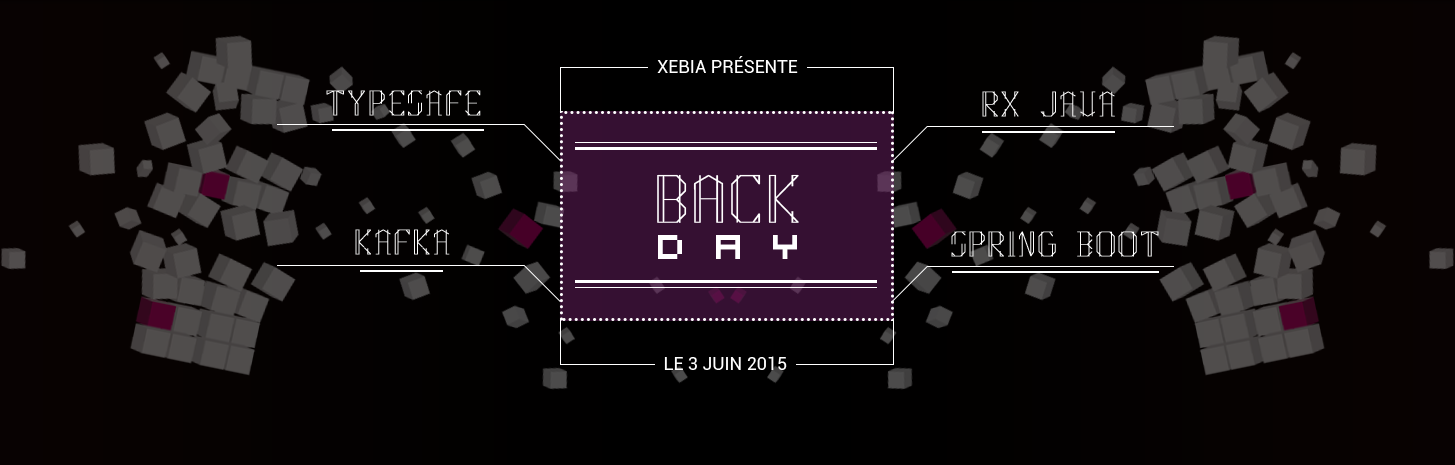
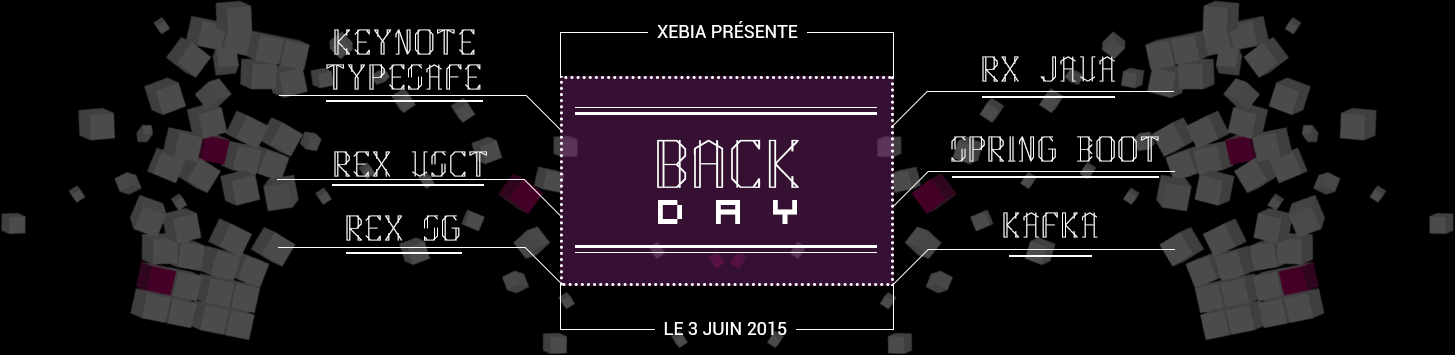
new img header + new input

diff --git a/styles/main.min.css b/styles/main.min.css
@@ -1,1 +1,1 @@
-@font-face{font-family:"visitor";src:url('../fonts/visitor2-webfont.woff') format('woff'),url('../fonts/visitor2-webfont.svg') format('svg'),url('../fonts/visitor2-webfont.ttf') format('truetype')}html,body,div,span,applet,object,iframe,h1,h2,h3,h4,h5,h6,p,blockquote,pre,a,abbr,acronym,address,big,cite,code,del,dfn,em,img,ins,kbd,q,s,samp,small,strike,strong,sub,sup,tt,var,b,u,i,center,dl,dt,dd,ol,ul,li,fieldset,form,label,legend,table,caption,tbody,tfoot,thead,tr,th,td,article,aside,canvas,details,embed,figure,figcaption,footer,header,hgroup,menu,nav,output,ruby,section,summary,time,mark,audio,video{margin:0;padding:0;border:0;font-size:100%;font:inherit;vertical-align:baseline}article,aside,details,figcaption,figure,footer,header,hgroup,menu,nav,section{display:block}body{line-height:1}.link{color:#aa2615;text-decoration:none}ol,ul{list-style:none}blockquote,q{quotes:none}blockquote:before,blockquote:after,q:before,q:after{content:'';content:none}table{border-collapse:collapse;border-spacing:0}p,h1,h2,h3,h4,span,div,th,td,a{font-family:'Roboto',sans-serif}body{margin:0 auto}.pixel_title{font-family:"visitor";font-size:40px;color:#aa2615}.inner-wrapper{max-width:1024px;margin-left:auto;margin-right:auto;position:relative}.inner-wrapper:after{clear:both;content:'';display:block}header{position:relative}header .xebia{min-height:60px;background-color:#6c1d5f;padding-bottom:10px}header .xebia nav{float:right;padding-top:30px}@media (max-width:480px){header .xebia nav{display:none}}header .xebia nav ul li{display:inline-block}header .xebia nav ul li a{color:white;text-decoration:none;margin-right:20px;padding:20px 20px}@media (max-width:480px){header .xebia nav ul li a{padding:0px;text-align:center}}header .xebia nav ul li a:hover{border-bottom:2px solid white}header .xebia .logo-xebia{margin-left:45px;margin-top:15px;float:left}@media (max-width:420px){header .xebia{text-align:center}header .xebia .logo-xebia{margin-top:0;padding-top:10px;display:block;float:none;margin-left:auto;margin-right:auto}}header .xebia:after{clear:both;content:'';display:block}header .backday{background-color:#000;background-image:url(../images/header/img_back_day_xebia.png);background-repeat:no-repeat;background-position:center;min-width:700px;background-size:1460px;position:relative}@media (max-width:540px){header .backday{background-image:url(../images/header/img_back_day_mobile.png);background-size:100%;min-width:320px;background-position:top}}header .backday .inner-wrapper{min-height:464px}@media (max-width:540px){header .backday .inner-wrapper{min-height:364px}}header .backday .devops-titre{margin-top:55px;margin-left:10px}header .backday .devops-logo{position:absolute;right:5px;bottom:5px}header .backday .time-wrapper{margin-top:60px}header .backday .time-wrapper time{color:#aa2615;font-size:50px;margin-left:40px}@media (max-width:400px){header .backday .time-wrapper time{margin-left:0}}@media (max-width:1020px){header .backday{text-align:center}header .backday .devops-logo{position:static;margin-top:15px;margin-bottom:20px}}@media (max-width:705px){header .backday .devops-logo{width:100%}}@media (max-width:470px){header .backday .devops-titre{width:100%;margin-left:0}}header .more-button{text-align:center;bottom:-37px;position:absolute;left:0;right:0}header .triangle{border-right:16px solid transparent;border-left:16px solid transparent;border-top:16px solid #6c1d5f;width:0;height:0;position:absolute;margin-left:auto;margin-right:auto;left:0;right:0;bottom:22px;z-index:-1}main section{padding-top:30px;padding-bottom:30px}.popupable{cursor:pointer}.popupable:after{content:'→';background-color:#6c1d5f;border-radius:100%;color:white;width:25px;height:25px;display:inline-block;line-height:25px;margin-left:10px}.popupable:hover{color:#aa2615}.popupable:hover:after{background-color:#aa2615}main .tagline h1{text-align:center;color:#aa2615;font-size:22px;padding-top:30px;padding-bottom:30px;text-transform:uppercase}main .tagline h2{text-transform:uppercase;font-size:21px;border-bottom:1px solid black;margin-top:20px;max-width:900px;margin-left:auto;margin-right:auto}main .tagline h2 b{font-weight:bold}main .tagline .first-paragraph{margin-top:50px;line-height:24px}main .tagline p{max-width:900px;margin-left:auto;margin-right:auto}main .tagline p.bold{margin-top:30px;margin-bottom:30px;font-weight:bold}main .tagline .techtrends-wrapper{float:right;margin:20px 40px;text-align:center}main .tagline .techtrends-wrapper a{color:#aa2615;text-decoration:none}main .tagline .techtrends-wrapper a:hover{color:#aa2615;text-decoration:none}main .tagline .techtrends-wrapper div{margin-top:10px}@media (max-width:750px){main .tagline .techtrends-wrapper{float:none}}main .tagline:after{clear:both;content:'';display:block}main .program{background-color:#f5f5f5;padding-bottom:60px}main .program h1{text-transform:uppercase;font-size:22px;padding-top:30px;margin-bottom:15px;max-width:900px;margin-left:auto;margin-right:auto;border-bottom:1px solid black}main .program h1 b{font-weight:bold}main .program .table-wrapper{padding-top:20px;padding-bottom:20px}main .program .table-wrapper table{width:95%;margin-left:auto;margin-right:auto}main .program .table-wrapper table thead th{color:#aa2615;text-transform:uppercase;font-weight:bold}main .program .table-wrapper table tbody td{text-align:center;border-bottom:1px solid #e4e4e4;padding-top:12px;padding-bottom:12px;padding-right:20px;font-size:14px}main .program .table-wrapper table tbody td.center-cell{border-right:1px solid #e4e4e4}main .program .table-wrapper table tbody td.inscription-cell{color:#6c1d5f;vertical-align:middle;padding-left:5px;padding-right:20px}main .program .table-wrapper table tbody td:first-of-type{color:#6c1d5f;font-weight:bold;text-align:left;min-width:120px}main .program .table-wrapper table tbody td.last-cell{border-right:1px solid #e4e4e4}main .program .table-wrapper table tbody td.last-line{border-bottom:none}main .program .table-wrapper table tbody a{text-decoration:none}main .program .table-wrapper table tbody a:hover{color:#aa2615}main .program .table-wrapper table tbody .open-inscription a{position:relative;display:inline-block;width:100%;padding-left:5px;padding-right:20px;color:#6c1d5f}main .program .table-wrapper table tbody .open-inscription a:hover{color:#aa2615}@media (min-width:860px){main .program .table-wrapper table tbody .open-inscription a:after{content:' > ';position:absolute;right:5px}}main .program .table-wrapper table tbody .inscription-line{display:none}@media (max-width:860px){main .program .table-wrapper table,main .program .table-wrapper thead,main .program .table-wrapper tbody,main .program .table-wrapper th,main .program .table-wrapper td,main .program .table-wrapper tr{display:block}main .program .table-wrapper #table-planning tbody{border-right:4px solid #e4e4e4;border-left:4px solid #e4e4e4;border-bottom:4px solid #e4e4e4}main .program .table-wrapper #table-planning tbody:first-of-type{border-top:4px solid #e4e4e4}main .program .table-wrapper #table-planning tbody .inscription-line{display:inherit}main .program .table-wrapper #table-planning thead tr{position:absolute;top:-9999px;left:-9999px}main .program .table-wrapper #table-planning tr{border-bottom:1px solid #e4e4e4}main .program .table-wrapper #table-planning td{border:none;border-bottom:1px solid #e4e4e4;position:relative;white-space:normal;text-align:center;padding-left:46px}main .program .table-wrapper #table-planning td:before{position:absolute;top:6px;left:6px;width:45%;padding-right:10px;white-space:nowrap;text-align:left;font-weight:bold}main .program .table-wrapper #table-planning td.center-cell:before{content:'LOG';color:#aa2615}main .program .table-wrapper #table-planning td.second-room:before{content:'PERF';color:#aa2615}main .program .table-wrapper #table-planning td.inscription-cell{display:none}}.partner h1{text-transform:uppercase;font-size:23px;border-bottom:1px solid black;margin-top:20px;max-width:900px;margin-left:auto;margin-right:auto}@media (max-width:480px){.partner h1{margin-bottom:30px}}.partner h1 b{font-weight:bold}.partner .logo-partner{text-align:center}.partner .logo-partner .img-wrapper{display:inline-block}.partner .logo-partner .img-wrapper.second{width:200px;position:relative;top:25px}@media (max-width:480px){.partner .logo-partner .img-wrapper.second{top:0px}}.partner .logo-partner .img-wrapper.third{margin-left:20px}.partner .logo-partner .img-wrapper.second-quarter,.partner .logo-partner .img-wrapper.third-quarter,.partner .logo-partner .img-wrapper.fourth-quarter{margin-left:30px}.partner .logo-partner .img-wrapper.fourth-quarter{position:relative;top:9px}.partner .logo-partner .img-wrapper .xebia-labs{width:160px}footer .social{background-color:#6c1d5f;text-align:center}footer .social a{text-decoration:none;color:black;height:100px;line-height:100px;margin:0 20px}@media (max-width:450px){footer .social a{margin:0}}footer .social a:visited{text-decoration:none;color:black}footer .social a img{vertical-align:middle}footer .social a img.active{display:none}footer .social a:hover img.active{display:inherit}footer .social a:hover img.inactive{display:none}footer .alliancy{background-color:#f1f0ee}footer .alliancy .tagline{width:462px;margin:auto;height:170px;background:url('../images/footer-alliance.png') 0 20px no-repeat #f1f0ee}@media (max-width:470px){footer .alliancy .tagline{width:100%}}footer .alliancy .tagline-xebia{width:462px;margin:auto;height:111px;background:url('../images/footer-logo-xebia.png') 0 20px no-repeat #f1f0ee}@media (max-width:470px){footer .alliancy .tagline-xebia{background:url('../images/footer-logo-xebia.png') 0 20px no-repeat #f1f0ee;height:55px;margin-bottom:10px;width:100%}}footer .alliancy .tagline-alliance{width:550px;margin:auto;border-top:1px solid #bebab8}@media (max-width:470px){footer .alliancy .tagline-alliance{width:100%}}footer .alliancy .tagline-alliance:after{clear:both;content:'';display:block}footer .alliancy .tagline-alliance .alliance-wrapper:after{clear:both;content:'';display:block}footer .alliancy .tagline-alliance div{text-transform:uppercase;line-height:16px;text-align:justify;float:left;margin-left:7px;margin-top:16px;font-size:11px;letter-spacing:1px}@media (max-width:470px){footer .alliancy .tagline-alliance div{float:none;text-align:center}footer .alliancy .tagline-alliance div .unused{display:none}}footer .alliancy .tagline-alliance a{color:#6d626b}footer .alliancy .tagline-alliance a:hover{text-decoration:underline}@media (max-width:470px){footer .alliancy .tagline-alliance a{display:block}}footer .alliancy .logo-alliance{margin-top:10px;float:left}@media (max-width:470px){footer .alliancy .logo-alliance{float:none}}#infos{padding-bottom:0px}#infos h2{margin-bottom:10px}.fade{opacity:0;-webkit-transition:opacity .15s linear;transition:opacity .15s linear}.fade.in{opacity:1}.close{float:right;font-size:21px;font-weight:bold;line-height:1;color:#000;text-shadow:0 1px 0 #fff;filter:alpha(opacity=20);opacity:.2}.close:hover,.close:focus{color:#000;text-decoration:none;cursor:pointer;filter:alpha(opacity=50);opacity:.5}button.close{-webkit-appearance:none;padding:0;cursor:pointer;background:transparent;border:0}.modal-open{overflow:hidden}.modal{position:fixed;top:0;right:0;bottom:0;left:0;z-index:1050;display:none;overflow:auto;overflow-y:scroll;-webkit-overflow-scrolling:touch;outline:0}.modal.fade .modal-dialog{-webkit-transition:-webkit-transform .3s ease-out;-moz-transition:-moz-transform .3s ease-out;-o-transition:-o-transform .3s ease-out;transition:transform .3s ease-out;-webkit-transform:translate(0, -25%);-ms-transform:translate(0, -25%);transform:translate(0, -25%)}.modal.in .modal-dialog{-webkit-transform:translate(0, 0);-ms-transform:translate(0, 0);transform:translate(0, 0)}.modal-dialog{position:relative;width:auto;margin:10px}.modal-content{position:relative;background-color:#fff;background-clip:padding-box;border:1px solid #999;border:1px solid rgba(0,0,0,0.2);border-radius:6px;outline:none;-webkit-box-shadow:0 3px 9px rgba(0,0,0,0.5);box-shadow:0 3px 9px rgba(0,0,0,0.5)}.modal-backdrop{position:fixed;top:0;right:0;bottom:0;left:0;z-index:1040;background-color:#000}.modal-backdrop.fade{filter:alpha(opacity=0);opacity:0}.modal-backdrop.in{filter:alpha(opacity=50);opacity:.5}.modal-header{min-height:16.42857143px;padding:15px;border-bottom:1px solid #e5e5e5}.modal-header .close{margin-top:-2px}.modal-title{margin:0;line-height:1.42857143}.modal-body{position:relative;padding:20px}.modal-footer{padding:19px 20px 20px;margin-top:15px;text-align:right;border-top:1px solid #e5e5e5}.modal-footer .btn+.btn{margin-bottom:0;margin-left:5px}.modal-footer .btn-group .btn+.btn{margin-left:-1px}.modal-footer .btn-block+.btn-block{margin-left:0}@media (min-width:768px){.modal-dialog{width:600px;margin:30px auto}.modal-content{-webkit-box-shadow:0 5px 15px rgba(0,0,0,0.5);box-shadow:0 5px 15px rgba(0,0,0,0.5)}.modal-sm{width:300px}}@media (min-width:992px){.modal-lg{width:900px}}.modal-header{background-color:#aa2615;color:white}.modal-header .close{color:#aa2615;opacity:1;background-color:white;width:25px;height:25px;border-radius:25px}.modal-header .close:hover{color:#7d1c0f;background-color:#e6e6e6;opacity:1}.modal-header h4{text-transform:uppercase}.modal-body{padding:0}.modal-body p,.modal-body h4{margin-left:20px;margin-right:20px}.modal-body p{font-size:14px}.modal-body .slot{margin-top:40px;margin-bottom:40px;margin-left:40px;margin-right:40px;text-align:justify}.modal-body .slot strong{font-weight:bold}.modal-body ul.slot{list-style:disc;font-size:14px;margin-left:60px}.modal-body .speakers{background-color:#f2f2f2;padding-bottom:20px}.modal-body .speakers h4{border-bottom:1px solid black;margin-bottom:50px;padding-top:30px;font-size:20px}.modal-body .speakers h4 strong{font-weight:bold}.modal-body .speakers .speaker{background-color:white;margin-left:30px;margin-right:30px;position:relative}@media (max-width:700px){.modal-body .speakers .speaker{text-align:center}}.modal-body .speakers .speaker .img-wrapper{display:inline-block;max-width:35%;vertical-align:middle;position:relative}.modal-body .speakers .speaker .img-wrapper.right{float:none}.modal-body .speakers .speaker .img-wrapper img{width:100%}@media (min-width:700px){.modal-body .speakers .speaker .img-wrapper:after{content:'';width:0;height:0;border-top:15px solid transparent;border-bottom:15px solid transparent;border-right:15px solid #fff;display:block;position:absolute;top:45%;right:0}.modal-body .speakers .speaker .img-wrapper.right{float:right}.modal-body .speakers .speaker .img-wrapper.right:after{border:none}.modal-body .speakers .speaker .img-wrapper.right:before{content:'';width:0;height:0;border-top:15px solid transparent;border-bottom:15px solid transparent;border-left:15px solid #fff;display:block;position:absolute;top:45%;left:0}}.modal-body .speakers .speaker .info{padding-top:15px;padding-bottom:15px;display:inline-block;width:64%;vertical-align:middle}@media (max-width:700px){.modal-body .speakers .speaker .info{width:auto}}.modal-body .speakers .speaker .info .name{text-transform:uppercase;color:#aa2615;margin-left:20px;margin-bottom:15px;display:inline-block}.modal-body .speakers .speaker .info .desc{text-align:justify}.modal-body .speakers .speaker:after{clear:both;content:'';display:block}
+@font-face{font-family:"visitor";src:url('../fonts/visitor2-webfont.woff') format('woff'),url('../fonts/visitor2-webfont.svg') format('svg'),url('../fonts/visitor2-webfont.ttf') format('truetype')}html,body,div,span,applet,object,iframe,h1,h2,h3,h4,h5,h6,p,blockquote,pre,a,abbr,acronym,address,big,cite,code,del,dfn,em,img,ins,kbd,q,s,samp,small,strike,strong,sub,sup,tt,var,b,u,i,center,dl,dt,dd,ol,ul,li,fieldset,form,label,legend,table,caption,tbody,tfoot,thead,tr,th,td,article,aside,canvas,details,embed,figure,figcaption,footer,header,hgroup,menu,nav,output,ruby,section,summary,time,mark,audio,video{margin:0;padding:0;border:0;font-size:100%;font:inherit;vertical-align:baseline}article,aside,details,figcaption,figure,footer,header,hgroup,menu,nav,section{display:block}body{line-height:1}.link{color:#aa2615;text-decoration:none}ol,ul{list-style:none}blockquote,q{quotes:none}blockquote:before,blockquote:after,q:before,q:after{content:'';content:none}table{border-collapse:collapse;border-spacing:0}p,h1,h2,h3,h4,span,div,th,td,a{font-family:'Roboto',sans-serif}body{margin:0 auto}.pixel_title{font-family:"visitor";font-size:40px;color:#aa2615}.inner-wrapper{max-width:1024px;margin-left:auto;margin-right:auto;position:relative}.inner-wrapper:after{clear:both;content:'';display:block}header{position:relative}header .xebia{min-height:60px;background-color:#6c1d5f;padding-bottom:10px}header .xebia nav{float:right;padding-top:30px}@media (max-width:480px){header .xebia nav{display:none}}header .xebia nav ul li{display:inline-block}header .xebia nav ul li a{color:white;text-decoration:none;margin-right:20px;padding:20px 20px}@media (max-width:480px){header .xebia nav ul li a{padding:0px;text-align:center}}header .xebia nav ul li a:hover{border-bottom:2px solid white}header .xebia .logo-xebia{margin-left:45px;margin-top:15px;float:left}@media (max-width:420px){header .xebia{text-align:center}header .xebia .logo-xebia{margin-top:0;padding-top:10px;display:block;float:none;margin-left:auto;margin-right:auto}}header .xebia:after{clear:both;content:'';display:block}header .backday{background-color:#000;background-image:url(../images/header/img_back_day_xebia.png);background-repeat:no-repeat;background-position:center;min-width:700px;background-size:1460px;position:relative}@media (max-width:540px){header .backday{background-image:url(../images/header/img_back_day_mobile.png);background-size:100%;min-width:320px;background-position:top}}header .backday .inner-wrapper{min-height:464px}@media (max-width:540px){header .backday .inner-wrapper{min-height:364px}}header .backday .devops-titre{margin-top:55px;margin-left:10px}header .backday .devops-logo{position:absolute;right:5px;bottom:5px}header .backday .time-wrapper{margin-top:60px}header .backday .time-wrapper time{color:#aa2615;font-size:50px;margin-left:40px}@media (max-width:400px){header .backday .time-wrapper time{margin-left:0}}@media (max-width:1020px){header .backday{text-align:center}header .backday .devops-logo{position:static;margin-top:15px;margin-bottom:20px}}@media (max-width:705px){header .backday .devops-logo{width:100%}}@media (max-width:470px){header .backday .devops-titre{width:100%;margin-left:0}}header .more-button{text-align:center;bottom:-37px;position:absolute;left:0;right:0}header .triangle{border-right:16px solid transparent;border-left:16px solid transparent;border-top:16px solid #6c1d5f;width:0;height:0;position:absolute;margin-left:auto;margin-right:auto;left:0;right:0;bottom:22px;z-index:-1}main section{padding-top:30px;padding-bottom:30px}.popupable{cursor:pointer}.popupable:after{content:'→';background-color:#6c1d5f;border-radius:100%;color:white;width:25px;height:25px;display:inline-block;line-height:25px;margin-left:10px}.popupable:hover{color:#aa2615}.popupable:hover:after{background-color:#aa2615}main .tagline h1{text-align:center;color:#aa2615;font-size:22px;padding-top:30px;padding-bottom:30px;text-transform:uppercase}main .tagline h2{text-transform:uppercase;font-size:21px;border-bottom:1px solid black;margin-top:20px;max-width:900px;margin-left:auto;margin-right:auto}main .tagline h2 b{font-weight:bold}main .tagline .first-paragraph{margin-top:50px;line-height:24px}main .tagline p{max-width:900px;margin-left:auto;margin-right:auto}main .tagline p.bold{margin-top:30px;margin-bottom:30px;font-weight:bold}main .tagline .techtrends-wrapper{float:right;margin:20px 40px;text-align:center}main .tagline .techtrends-wrapper a{color:#aa2615;text-decoration:none}main .tagline .techtrends-wrapper a:hover{color:#aa2615;text-decoration:none}main .tagline .techtrends-wrapper div{margin-top:10px}@media (max-width:750px){main .tagline .techtrends-wrapper{float:none}}main .tagline:after{clear:both;content:'';display:block}main .program{background-color:#f5f5f5;padding-bottom:60px}main .program h1{text-transform:uppercase;font-size:22px;padding-top:30px;margin-bottom:15px;max-width:900px;margin-left:auto;margin-right:auto;border-bottom:1px solid black}main .program h1 b{font-weight:bold}main .program .table-wrapper{padding-top:20px;padding-bottom:20px}main .program .table-wrapper table{width:87%;margin-left:auto;margin-right:auto}main .program .table-wrapper table thead th{color:#aa2615;text-transform:uppercase;font-weight:bold}main .program .table-wrapper table tbody td{text-align:center;border-bottom:1px solid #e4e4e4;padding-top:12px;padding-bottom:12px;padding-right:20px;font-size:14px}main .program .table-wrapper table tbody td.center-cell{border-right:1px solid #e4e4e4}main .program .table-wrapper table tbody td.inscription-cell{color:#6c1d5f;vertical-align:middle;padding-left:5px;padding-right:20px}main .program .table-wrapper table tbody td:first-of-type{color:#6c1d5f;font-weight:bold;text-align:left;min-width:120px}main .program .table-wrapper table tbody td.last-cell{border-right:1px solid #e4e4e4}main .program .table-wrapper table tbody td.last-line{border-bottom:none}main .program .table-wrapper table tbody a{text-decoration:none}main .program .table-wrapper table tbody a:hover{color:#aa2615}main .program .table-wrapper table tbody .open-inscription a{position:relative;display:inline-block;width:100%;padding-left:5px;padding-right:20px;color:#6c1d5f}main .program .table-wrapper table tbody .open-inscription a:hover{color:#aa2615}@media (min-width:860px){main .program .table-wrapper table tbody .open-inscription a:after{content:' > ';position:absolute;right:5px}}main .program .table-wrapper table tbody .inscription-line{display:none}@media (max-width:860px){main .program .table-wrapper table,main .program .table-wrapper thead,main .program .table-wrapper tbody,main .program .table-wrapper th,main .program .table-wrapper td,main .program .table-wrapper tr{display:block}main .program .table-wrapper #table-planning tbody{border-right:4px solid #e4e4e4;border-left:4px solid #e4e4e4;border-bottom:4px solid #e4e4e4}main .program .table-wrapper #table-planning tbody:first-of-type{border-top:4px solid #e4e4e4}main .program .table-wrapper #table-planning tbody .inscription-line{display:inherit}main .program .table-wrapper #table-planning thead tr{position:absolute;top:-9999px;left:-9999px}main .program .table-wrapper #table-planning tr{border-bottom:1px solid #e4e4e4}main .program .table-wrapper #table-planning td{border:none;border-bottom:1px solid #e4e4e4;position:relative;white-space:normal;text-align:center;padding-left:46px}main .program .table-wrapper #table-planning td:before{position:absolute;top:6px;left:6px;width:45%;padding-right:10px;white-space:nowrap;text-align:left;font-weight:bold}main .program .table-wrapper #table-planning td.center-cell:before{content:'BACK';color:#aa2615}main .program .table-wrapper #table-planning td.second-room:before{content:'END';color:#aa2615}main .program .table-wrapper #table-planning td.inscription-cell{display:none}}.partner h1{text-transform:uppercase;font-size:23px;border-bottom:1px solid black;margin-top:20px;max-width:900px;margin-left:auto;margin-right:auto}@media (max-width:480px){.partner h1{margin-bottom:30px}}.partner h1 b{font-weight:bold}.partner .logo-partner{text-align:center}.partner .logo-partner .img-wrapper{display:inline-block}.partner .logo-partner .img-wrapper.second{width:200px;position:relative;top:25px}@media (max-width:480px){.partner .logo-partner .img-wrapper.second{top:0px}}.partner .logo-partner .img-wrapper.third{margin-left:20px}.partner .logo-partner .img-wrapper.second-quarter,.partner .logo-partner .img-wrapper.third-quarter,.partner .logo-partner .img-wrapper.fourth-quarter{margin-left:30px}.partner .logo-partner .img-wrapper.fourth-quarter{position:relative;top:9px}.partner .logo-partner .img-wrapper .xebia-labs{width:160px}footer .social{background-color:#6c1d5f;text-align:center}footer .social a{text-decoration:none;color:black;height:100px;line-height:100px;margin:0 20px}@media (max-width:450px){footer .social a{margin:0}}footer .social a:visited{text-decoration:none;color:black}footer .social a img{vertical-align:middle}footer .social a img.active{display:none}footer .social a:hover img.active{display:inherit}footer .social a:hover img.inactive{display:none}footer .alliancy{background-color:#f1f0ee}footer .alliancy .tagline{width:462px;margin:auto;height:170px;background:url('../images/footer-alliance.png') 0 20px no-repeat #f1f0ee}@media (max-width:470px){footer .alliancy .tagline{width:100%}}footer .alliancy .tagline-xebia{width:462px;margin:auto;height:111px;background:url('../images/footer-logo-xebia.png') 0 20px no-repeat #f1f0ee}@media (max-width:470px){footer .alliancy .tagline-xebia{background:url('../images/footer-logo-xebia.png') 0 20px no-repeat #f1f0ee;height:55px;margin-bottom:10px;width:100%}}footer .alliancy .tagline-alliance{width:550px;margin:auto;border-top:1px solid #bebab8}@media (max-width:470px){footer .alliancy .tagline-alliance{width:100%}}footer .alliancy .tagline-alliance:after{clear:both;content:'';display:block}footer .alliancy .tagline-alliance .alliance-wrapper:after{clear:both;content:'';display:block}footer .alliancy .tagline-alliance div{text-transform:uppercase;line-height:16px;text-align:justify;float:left;margin-left:7px;margin-top:16px;font-size:11px;letter-spacing:1px}@media (max-width:470px){footer .alliancy .tagline-alliance div{float:none;text-align:center}footer .alliancy .tagline-alliance div .unused{display:none}}footer .alliancy .tagline-alliance a{color:#6d626b}footer .alliancy .tagline-alliance a:hover{text-decoration:underline}@media (max-width:470px){footer .alliancy .tagline-alliance a{display:block}}footer .alliancy .logo-alliance{margin-top:10px;float:left}@media (max-width:470px){footer .alliancy .logo-alliance{float:none}}#infos{padding-bottom:0px}#infos h2{margin-bottom:10px}.fade{opacity:0;-webkit-transition:opacity .15s linear;transition:opacity .15s linear}.fade.in{opacity:1}.close{float:right;font-size:21px;font-weight:bold;line-height:1;color:#000;text-shadow:0 1px 0 #fff;filter:alpha(opacity=20);opacity:.2}.close:hover,.close:focus{color:#000;text-decoration:none;cursor:pointer;filter:alpha(opacity=50);opacity:.5}button.close{-webkit-appearance:none;padding:0;cursor:pointer;background:transparent;border:0}.modal-open{overflow:hidden}.modal{position:fixed;top:0;right:0;bottom:0;left:0;z-index:1050;display:none;overflow:auto;overflow-y:scroll;-webkit-overflow-scrolling:touch;outline:0}.modal.fade .modal-dialog{-webkit-transition:-webkit-transform .3s ease-out;-moz-transition:-moz-transform .3s ease-out;-o-transition:-o-transform .3s ease-out;transition:transform .3s ease-out;-webkit-transform:translate(0, -25%);-ms-transform:translate(0, -25%);transform:translate(0, -25%)}.modal.in .modal-dialog{-webkit-transform:translate(0, 0);-ms-transform:translate(0, 0);transform:translate(0, 0)}.modal-dialog{position:relative;width:auto;margin:10px}.modal-content{position:relative;background-color:#fff;background-clip:padding-box;border:1px solid #999;border:1px solid rgba(0,0,0,0.2);border-radius:6px;outline:none;-webkit-box-shadow:0 3px 9px rgba(0,0,0,0.5);box-shadow:0 3px 9px rgba(0,0,0,0.5)}.modal-backdrop{position:fixed;top:0;right:0;bottom:0;left:0;z-index:1040;background-color:#000}.modal-backdrop.fade{filter:alpha(opacity=0);opacity:0}.modal-backdrop.in{filter:alpha(opacity=50);opacity:.5}.modal-header{min-height:16.42857143px;padding:15px;border-bottom:1px solid #e5e5e5}.modal-header .close{margin-top:-2px}.modal-title{margin:0;line-height:1.42857143}.modal-body{position:relative;padding:20px}.modal-footer{padding:19px 20px 20px;margin-top:15px;text-align:right;border-top:1px solid #e5e5e5}.modal-footer .btn+.btn{margin-bottom:0;margin-left:5px}.modal-footer .btn-group .btn+.btn{margin-left:-1px}.modal-footer .btn-block+.btn-block{margin-left:0}@media (min-width:768px){.modal-dialog{width:600px;margin:30px auto}.modal-content{-webkit-box-shadow:0 5px 15px rgba(0,0,0,0.5);box-shadow:0 5px 15px rgba(0,0,0,0.5)}.modal-sm{width:300px}}@media (min-width:992px){.modal-lg{width:900px}}.modal-header{background-color:#aa2615;color:white}.modal-header .close{color:#aa2615;opacity:1;background-color:white;width:25px;height:25px;border-radius:25px}.modal-header .close:hover{color:#7d1c0f;background-color:#e6e6e6;opacity:1}.modal-header h4{text-transform:uppercase}.modal-body{padding:0}.modal-body p,.modal-body h4{margin-left:20px;margin-right:20px}.modal-body p{font-size:14px}.modal-body .slot{margin-top:40px;margin-bottom:40px;margin-left:40px;margin-right:40px;text-align:justify}.modal-body .slot strong{font-weight:bold}.modal-body ul.slot{list-style:disc;font-size:14px;margin-left:60px}.modal-body .speakers{background-color:#f2f2f2;padding-bottom:20px}.modal-body .speakers h4{border-bottom:1px solid black;margin-bottom:50px;padding-top:30px;font-size:20px}.modal-body .speakers h4 strong{font-weight:bold}.modal-body .speakers .speaker{background-color:white;margin-left:30px;margin-right:30px;position:relative}@media (max-width:700px){.modal-body .speakers .speaker{text-align:center}}.modal-body .speakers .speaker .img-wrapper{display:inline-block;max-width:35%;vertical-align:middle;position:relative}.modal-body .speakers .speaker .img-wrapper.right{float:none}.modal-body .speakers .speaker .img-wrapper img{width:100%}@media (min-width:700px){.modal-body .speakers .speaker .img-wrapper:after{content:'';width:0;height:0;border-top:15px solid transparent;border-bottom:15px solid transparent;border-right:15px solid #fff;display:block;position:absolute;top:45%;right:0}.modal-body .speakers .speaker .img-wrapper.right{float:right}.modal-body .speakers .speaker .img-wrapper.right:after{border:none}.modal-body .speakers .speaker .img-wrapper.right:before{content:'';width:0;height:0;border-top:15px solid transparent;border-bottom:15px solid transparent;border-left:15px solid #fff;display:block;position:absolute;top:45%;left:0}}.modal-body .speakers .speaker .info{padding-top:15px;padding-bottom:15px;display:inline-block;width:64%;vertical-align:middle}@media (max-width:700px){.modal-body .speakers .speaker .info{width:auto}}.modal-body .speakers .speaker .info .name{text-transform:uppercase;color:#aa2615;margin-left:20px;margin-bottom:15px;display:inline-block}.modal-body .speakers .speaker .info .desc{text-align:justify}.modal-body .speakers .speaker:after{clear:both;content:'';display:block}

diff --git a/index.html b/index.html
@@ -162,7 +162,7 @@
                         <td class="center-cell popupable" data-toggle="modal" data-target="#techevent-modal">Microservices en démo
                         </td>
                         <td class="last-cell second-room popupable" data-toggle="modal" data-target="#akka-modal">
-                            À la découverte du framework Akka
+                          Akka, the reactive toolkit
                         </td>
                     </tr>
                     <tr>
@@ -391,7 +391,8 @@ Il y assure la conception d’une version du site Internet et l’animation d’
                 <h4 class="modal-title">Going Réactif avec Streams Akka (présentation en anglais)</h4>
             </div>
             <div class="modal-body">
-                <p class="slot"><strong>Akka Streams est une implémentation de <a href="http://reactive-streams.org/" class="link">Reactive Streams</a>. La spécification est un effort conjoint de normaliser l'échange de flux de données à travers les frontières asynchrones, de manière totalement non-bloquant, tout en offrant le contrôle de flux et de médiation contre-pression.
+                <p class="slot"><strong>Akka Streams est une implémentation de <a href="http://reactive-streams.org/" class="link">Reactive Streams</a>.
+                  Cette spécification est issue d'un effort commun pour rendre standard le streaming de données à travers des composants asynchrones, de manière totalement non bloquante, tout en gardant le contrôle sur le débit de transfert grâce au mécanisme de "backpressure".
 
 
 
@@ -540,14 +541,14 @@ Il a fait de multiples présentations lors de conférences telles que code.talks
         <div class="modal-content">
             <div class="modal-header">
                 <button type="button" class="close" data-dismiss="modal">&times;</button>
-                <h4 class="modal-title">À la découverte du framework Akka</h4>
+                <h4 class="modal-title">Akka, the reactive toolkit</h4>
             </div>
             <div class="modal-body">
-                <p class="slot"><strong>Vous êtes curieux sur les systèmes d'acteurs de Scala et ses extensions pour la construction de systèmes distribués ? Vous voulez programmer pour le Cloud de la même manière que dans votre ordinateur ?
+                <p class="slot"><strong>Plusieurs frameworks permettent de mettre en place facilement des microservices. Vert.x ou Sprint Cloud sont souvent cités. Venez découvrir comment Akka permet, grâce au modèle acteur, de construire des systèmes distribués complexes, résilient et scalable.
 
                 </strong></p>
 
-                <p class="slot">Venez découvrir le framework Akka et ses implications dans les systèmes modernes.</p>
+                <p class="slot">Nous verrons aussi les grands principes d'architecture à respecter pour tirer pleinement parti de cette technologie prometteuse.</p>
 
 
 
@@ -567,6 +568,23 @@ Il a fait de multiples présentations lors de conférences telles que code.talks
 Il possède une expérience importante sur le développement des applications à haute disponibilité. Il a aussi une expérience confirmée sur une grande variété des frameworks Web et sur l’intégration d’applications.
 
 Ses intérêts se tournent vers la programmation réactive et les langages fonctionnels.
+                            </p>
+                        </div>
+                    </div>
+
+
+                    <div class="speaker">
+                        <div class="img-wrapper right">
+                            <img alt="Xavier Bucchiotty" src="images/speaker/xavier_bucchiotty.png"/>
+                        </div>
+
+                        <div class="info">
+                            <span class="name">Xavier Bucchiotty</span>
+
+                            <p class="desc">
+                              Xavier est un développeur passionné Java/Scala chez Xebia. Il développe depuis bientôt 10 ans. Il a découvert Akka et Scala en conférence il y a trois ans. Depuis, il ne cesse de creuser le sujet et de partager son enthousiasme sur cet écosystème, aussi bien en interne qu'en conférence. Cela lui permet notamment d'apporter de nouvelles solutions aux défis techniques qui lui sont posés aujourd'hui.
+
+Adepte des méthodes agiles, il est aussi un fervent défenseur des pratiques XP.
                             </p>
                         </div>
                     </div>

diff --git a/styles/devops.less b/styles/devops.less
@@ -425,7 +425,7 @@ main {
       padding-bottom: 20px;
 
       table {
-        width: 95%;
+        width: 87%;
         margin-left: auto;
         margin-right: auto;
 
@@ -566,11 +566,11 @@ main {
             }
 
             &.center-cell:before {
-              content: 'LOG';
+              content: 'BACK';
               color: @redColor;
             }
             &.second-room:before {
-              content: 'PERF';
+              content: 'END';
               color: @redColor;
             }
 
